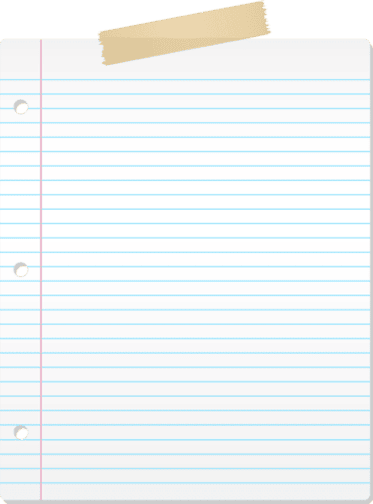
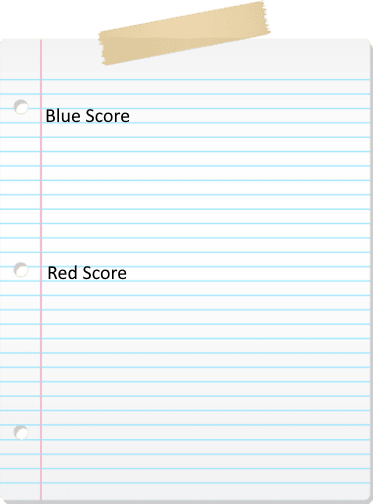
image location & adding text

Changed region(s): [[0.118, 0.2083, 0.3539, 0.2679], [0.118, 0.506, 0.3539, 0.5655]]

diff --git a/snake.py b/snake.py
@@ -50,11 +50,11 @@ def draw():
     blue.draw()
     red.draw()
 
-    screen.blit(paper, (1150, 0))
+    screen.blit(paper, (1150, 200))
     blue_tile = my_font.render(bluetile, False, (0, 0, 0))
     red_tile = my_font.render(redtile, False, (0, 0, 0))
-    screen.blit(blue_tile, (1200, 230))
-    screen.blit(red_tile, (1200, 380))
+    screen.blit(blue_tile, (1200, 330))
+    screen.blit(red_tile, (1200, 480))
 
 def move_blue():
     global counterblue
